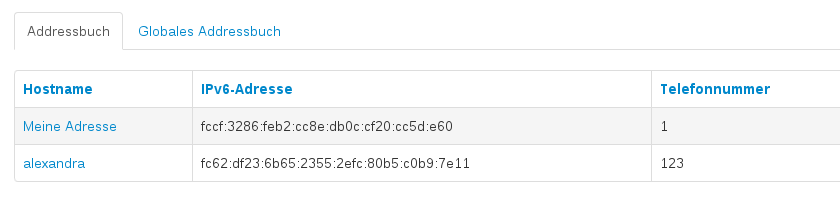
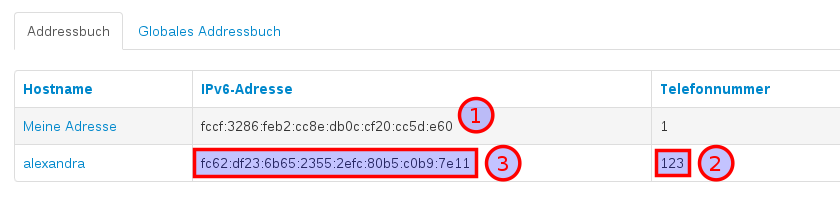
contact exchange

Changed region(s): [[0.2167, 0.7273, 0.619, 0.9394], [0.7738, 0.7273, 0.8976, 0.9394], [0.5262, 0.4848, 0.5881, 0.697]]

diff --git a/de/source/system.rst b/de/source/system.rst
@@ -2,7 +2,8 @@
 System
 ======
 
-sdf
+.. contents::
+   :local:
 
 .. _address_book:
 
@@ -12,26 +13,36 @@ Adressen verwalten
 
 Das Adressbuch ist der Dreh- und Angelpunkt für die Kontaktverwaltung der Enigmabox. Die IPv6-Adresse wird zufällig generiert und dient als eindeutige Identifizierung im Netzwerk.
 
+(Für technische Details, siehe :ref:`tech`).
+
 .. image:: images/addressbook-1.png
 
-Die IPv6 ist deine Telefonnummer.
+Die IPv6 ist deine Telefonnummer. Die Enigmaboxen identifizieren sich nur anhand dieser IPv6.
 
-Da es aber mühsam wäre, diese Adresse jedesmal am Telefon einzugeben, weist du der Adresse eine Kurznummer, eine Telefonnummer zu.
+Da es aber mühsam wäre, diese lange Folge von Zahlen und Buchstaben jedesmal am Telefon einzugeben, weist du der IPv6 eine Kurznummer für das Telefon, also eine Telefonnummer zu.
 
 Kontakt hinzufügen
 ==================
 
 .. image:: images/addressbook-add-number.png
 
-Trage die IPv6-Adresse deines Kontakts (2) in das entsprechende Feld ein. Gib dem Kontakt einen beliebigen Namen (Hostname) und eine Telefonnummer.
+Trage die IPv6 deines Kontakts (2) in das Feld "IPv6-Adresse" ein. Trage einen beliebigen Namen (Hostname) und eine Telefonnummer dazu ein.
 
-Gib deine IPv6-Adresse (1) deinem Gegenüber. Er wiederholt den Vorgang.
+Teile deine IPv6 (1) ("Meine Adresse") deinem Gegenüber mit. Er wiederholt den Vorgang.
 
-Sobald beide IPs gegenseitig im Adressbuch eingetragen sind, könnt ihr euch gegenseitig anrufen.
+Sobald die IPs gegenseitig im Adressbuch eingetragen sind, könnt ihr euch anrufen.
 
 .. image:: images/addressbook-2contacts.png
 
-sdf
+Beispiel:
+
+#. Meine IP ist "fccf:3286:feb2:cc8e:db0c:cf20:cc5d:e60"
+#. Ich wähle die Telefonnummer "123"
+#. Das Telefon ruft die IP "fc62:df23:6b65:2355:2efc:80b5:c0b9:7e11" (alexandra) an
+
+Der Hostname (alexandra) wird für die E-Mail Adresse verwendet. Die E-Mail Adresse von alexandra ist in diesem Beispiel "mail@alexandra".
+
+Wie man E-Mails sendet und empfängt, steht unter :ref:`email`.
 
 **********************
 Das globale Adressbuch

diff --git a/de/source/internet.rst b/de/source/internet.rst
@@ -1,10 +1,13 @@
+========
 Internet
 ========
 
-sdf
+.. contents::
+   :local:
 
 .. _country_selection:
 
+**************
 Land auswählen
 **************
 
@@ -12,11 +15,12 @@ sdf
 
 .. _webfilter:
 
+**************************
 Werbeblocker konfigurieren
 **************************
 
 Firefox
--------
+=======
 
 Hier werde ich Ihnen am Beispiel des Firefox erläutern, wie sie die Proxy-Einstellungen nur für den Browser konfigurieren können, ohne dass das ganze System davon betroffen ist:
 
@@ -33,7 +37,7 @@ Hier werde ich Ihnen am Beispiel des Firefox erläutern, wie sie die Proxy-Einst
 .. image:: images/proxysettingsfirefox.jpg
 
 Windows
--------
+=======
 
 * Öffnen Sie über das Startmenü die Systemeinstellungen Ihres Computers:
 
@@ -73,7 +77,7 @@ und anschliessend auf "Internet Optionen":
 .. image:: images/firefoxproxy.jpg
 
 Mac
----
+===
 
 * Öffnen Sie die Einstellungen Ihres Macs:
 
@@ -105,7 +109,7 @@ Mac
 .. image:: images/firefoxproxy.jpg
 
 iPad
-----
+====
 
 * Tippen Sie auf dem Startbildschirm von IPhone oder IPad auf das Zahnrad-Symbol "Einstellungen".
 * Wechseln Sie zum Bereich "WLAN".

diff --git a/de/source/telephony.rst b/de/source/telephony.rst
@@ -4,7 +4,8 @@
 Telefonie
 =========
 
-sdf
+.. contents::
+   :local:
 
 **********************
 Das Telefon einrichten

diff --git a/de/source/tech_concept.rst b/de/source/tech_concept.rst
@@ -1,3 +1,6 @@
+.. _tech:
+
+=========================
 Technische Funktionsweise
 =========================
 
